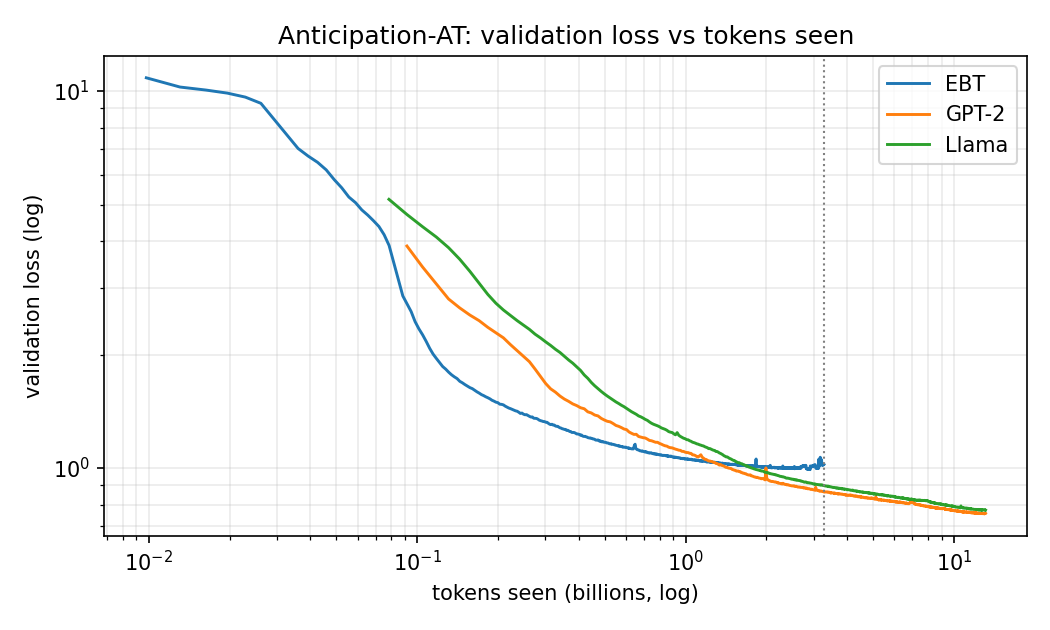
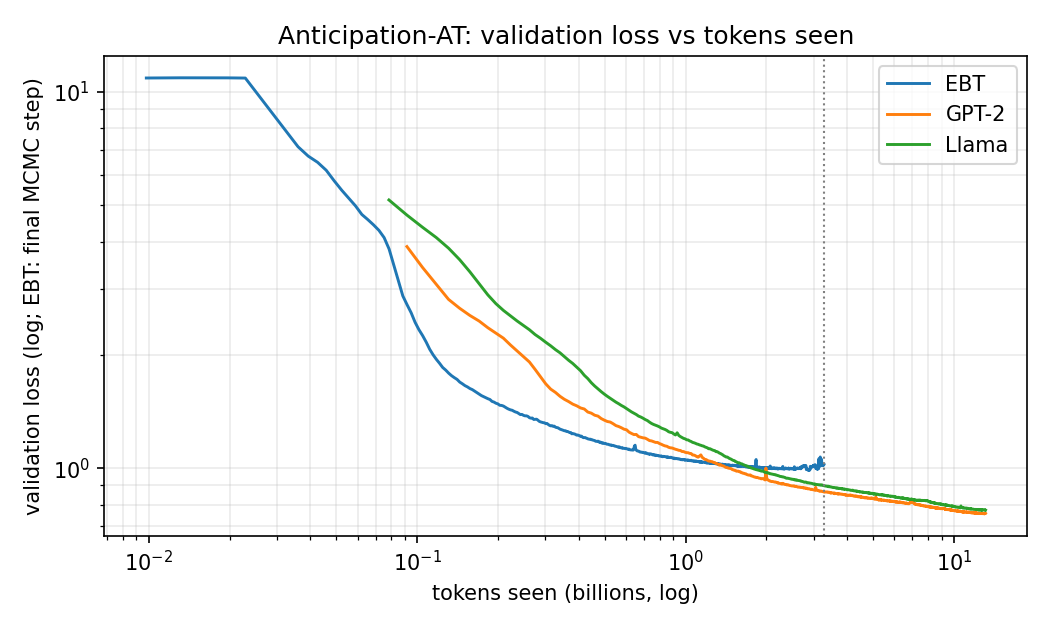
Tokens-matched: use EBT's final-MCMC-step loss and report perplexity
EBT's valid_loss averages CE over MCMC steps and its logged perplexity is a
mean of per-batch exp(), ~1.5% above exp(mean loss); the baselines log
exp(mean loss). Use exp(valid_final_loss) for a like-for-like comparison.

diff --git a/eval/plot_tokens_matched_curves.py b/eval/plot_tokens_matched_curves.py
@@ -13,6 +13,12 @@ continued). Isolated post-resume validation artifacts are dropped: dips >1.5%
 below the median of their ±6 neighbours (the filter used for the 2026-10-05
 checkpoint cleanup) and spikes >10% above it, as are the inf sentinels.
 
+For EBT the curve is valid_final_loss (the CE of the last MCMC step, i.e.
+the prediction actually sampled from), not valid_loss (the CE averaged over
+all MCMC steps). Perplexity is exp() of that loss for every model: EBT's
+logged valid_perplexity averages per-batch exp(loss), which reads ~1.5%
+higher than exp(mean loss), while the baselines log exp(mean loss).
+
 Caveats printed with the table: the baselines use context 1024 vs EBT's 512
 (longer context lowers loss on its own), and per-token loss is not comparable
 across tokenizers (vocab 427 vs 55,028), so only compare within a tokenizer.
@@ -57,8 +63,8 @@ def run_ids(prefix: str) -> list[str]:
     return sorted(ids)
 
 
-def fetch_curve(api, project: str, ids: list[str]) -> tuple[np.ndarray, np.ndarray]:
-    """valid_loss by trainer/global_step, merged over runs (latest run wins)."""
+def fetch_curve(api, project: str, ids: list[str], key: str) -> tuple[np.ndarray, np.ndarray]:
+    """`key` by trainer/global_step, merged over runs (latest run wins)."""
     runs = []
     for rid in ids:
         try:
@@ -68,8 +74,8 @@ def fetch_curve(api, project: str, ids: list[str]) -> tuple[np.ndarray, np.ndarr
     runs.sort(key=lambda r: r.created_at)
     by_step = {}
     for r in runs:  # later runs overwrite earlier ones at the same step
-        for row in r.scan_history(keys=['trainer/global_step', 'valid_loss'], page_size=2000):
-            v = row['valid_loss']
+        for row in r.scan_history(keys=['trainer/global_step', key], page_size=2000):
+            v = row[key]
             v = float(v) if not isinstance(v, str) else float('nan')
             if math.isfinite(v):
                 by_step[int(row['trainer/global_step'])] = v
@@ -113,7 +119,11 @@ def main():
         for name, (prefix, project, tps) in models.items():
             ids = run_ids(prefix)
             print(f"{tok} / {name}: {len(ids)} wandb runs from {prefix}*")
-            steps, vals = fetch_curve(api, project, ids)
+            # EBT's valid_loss averages the CE over all MCMC steps; the prediction
+            # actually used is the last step's (valid_final_loss), which is the
+            # like-for-like counterpart of the baselines' next-token valid_loss.
+            key = 'valid_final_loss' if name == 'EBT' else 'valid_loss'
+            steps, vals = fetch_curve(api, project, ids, key)
             curves[name] = (steps * tps, vals, steps)
 
         fig, ax = plt.subplots(figsize=(7, 4.2))
@@ -124,7 +134,7 @@ def main():
         ax.set_xscale('log')
         ax.set_yscale('log')
         ax.set_xlabel('tokens seen (billions, log)')
-        ax.set_ylabel('validation loss (log)')
+        ax.set_ylabel('validation loss (log; EBT: final MCMC step)')
         ax.set_title(f'{tok}: validation loss vs tokens seen')
         ax.legend()
         ax.grid(True, which='both', alpha=0.25)
@@ -136,10 +146,12 @@ def main():
         budgets = sorted({0.5e9, 1e9, 2e9, round(ebt_end, -8)})
         print(f"\n{tok} — validation loss at matched token budgets "
               f"(EBT stopped at {ebt_end / 1e9:.2f}B tokens)")
-        print(f"{'model':8s}" + ''.join(f"{b / 1e9:>9.1f}B" for b in budgets) + f"{'final':>10s}")
-        for name, (tokens, vals, steps) in curves.items():
-            print(f"{name:8s}" + ''.join(f"{loss_at(tokens, vals, b):10.4f}" for b in budgets)
-                  + f"{vals[-1]:10.4f}  (step {steps[-1]:,}, {tokens[-1] / 1e9:.1f}B)")
+        for label, f in (('loss', lambda x: x), ('perplexity = exp(loss)', math.exp)):
+            print(f"  {label}")
+            print(f"{'model':8s}" + ''.join(f"{b / 1e9:>9.1f}B" for b in budgets) + f"{'final':>10s}")
+            for name, (tokens, vals, steps) in curves.items():
+                print(f"{name:8s}" + ''.join(f"{f(loss_at(tokens, vals, b)):10.4f}" for b in budgets)
+                      + f"{f(vals[-1]):10.4f}  (step {steps[-1]:,}, {tokens[-1] / 1e9:.1f}B)")
         print(f"→ {path}")
     print("\nCaveats: baselines use context 1024 vs EBT 512 (longer context lowers loss by itself);"
           "\nper-token loss is not comparable across tokenizers — compare within a table only.")

diff --git a/docs/thesis_findings/2026-10-05_tokens_matched_validation_loss.md b/docs/thesis_findings/2026-10-05_tokens_matched_validation_loss.md
@@ -23,17 +23,34 @@ mostly reflect that, so this compares the models at equal tokens seen.
 ![REMI](../figures/tokens_matched/val_loss_vs_tokens_remi.png)
 ![Anticipation](../figures/tokens_matched/val_loss_vs_tokens_anticipation_at.png)
 
+Loss (EBT: last MCMC step, `valid_final_loss`) and **perplexity = exp(loss)**:
+
 | REMI | 0.5B | 1.0B | 2.0B | 4.5B (EBT stop) | final |
 |---|---|---|---|---|---|
-| EBT | 0.911 | 0.824 | 0.767 | **0.718** | 0.716 (4.5B) |
-| GPT-2 | 0.783 | 0.726 | 0.672 | 0.597 | 0.542 (26B) |
-| Llama | 0.866 | 0.794 | 0.680 | 0.610 | 0.597 (26B) |
+| EBT | 0.911 / 2.49 | 0.814 / 2.26 | 0.764 / 2.15 | **0.716 / 2.05** | 0.714 / 2.04 (4.5B) |
+| GPT-2 | 0.783 / 2.19 | 0.726 / 2.07 | 0.672 / 1.96 | 0.597 / 1.82 | 0.542 / 1.72 (26B) |
+| Llama | 0.866 / 2.38 | 0.794 / 2.21 | 0.680 / 1.97 | 0.610 / 1.84 | 0.597 / 1.82 (26B) |
 
 | Anticipation-AT | 0.5B | 1.0B | 2.0B | 3.3B (EBT stop) | final |
 |---|---|---|---|---|---|
-| EBT | **1.171** | **1.057** | 1.005 | 1.021 | 1.022 (3.3B) |
-| GPT-2 | 1.336 | 1.101 | 0.933 | 0.864 | 0.758 (13.1B) |
-| Llama | 1.563 | 1.193 | 0.974 | 0.897 | 0.774 (13.1B) |
+| EBT | **1.163 / 3.20** | **1.051 / 2.86** | 1.001 / 2.72 | 1.021 / 2.78 | 1.022 / 2.78 (3.3B) |
+| GPT-2 | 1.336 / 3.80 | 1.101 / 3.01 | 0.933 / 2.54 | 0.864 / 2.37 | 0.758 / 2.13 (13.1B) |
+| Llama | 1.563 / 4.77 | 1.193 / 3.30 | 0.974 / 2.65 | 0.897 / 2.45 | 0.774 / 2.17 (13.1B) |
+
+**Which EBT loss / perplexity to use.** EBT's `valid_loss` is the CE
+averaged over all MCMC steps. The prediction actually sampled from is the
+last step's, `valid_final_loss`, which is the like-for-like counterpart of
+the baselines' `valid_loss`. EBT's logged `valid_perplexity` averages
+per-batch exp(loss), so it reads ~1.5% higher than exp(mean loss)
+(REMI step 34,267: logged 2.073 vs exp(0.7143) = 2.043). The baselines log
+exactly exp(mean loss). So report exp(`valid_final_loss`) for EBT, not the
+logged value.
+
+**MCMC refinement barely changes the prediction.** At REMI step 34,267:
+initial-step loss 0.7186 → final-step 0.7143 (−0.6%). With the 2 MCMC
+steps used in training, "thinking" adds very little to raw next-token
+quality. The quality-vs-MCMC-steps experiment should test whether more
+steps at inference help.
 
 - **Anticipation: EBT learns faster early, then plateaus.** It has lower loss
   than both baselines up to ~1.2B tokens (−12% / −25% vs GPT-2 / Llama at
